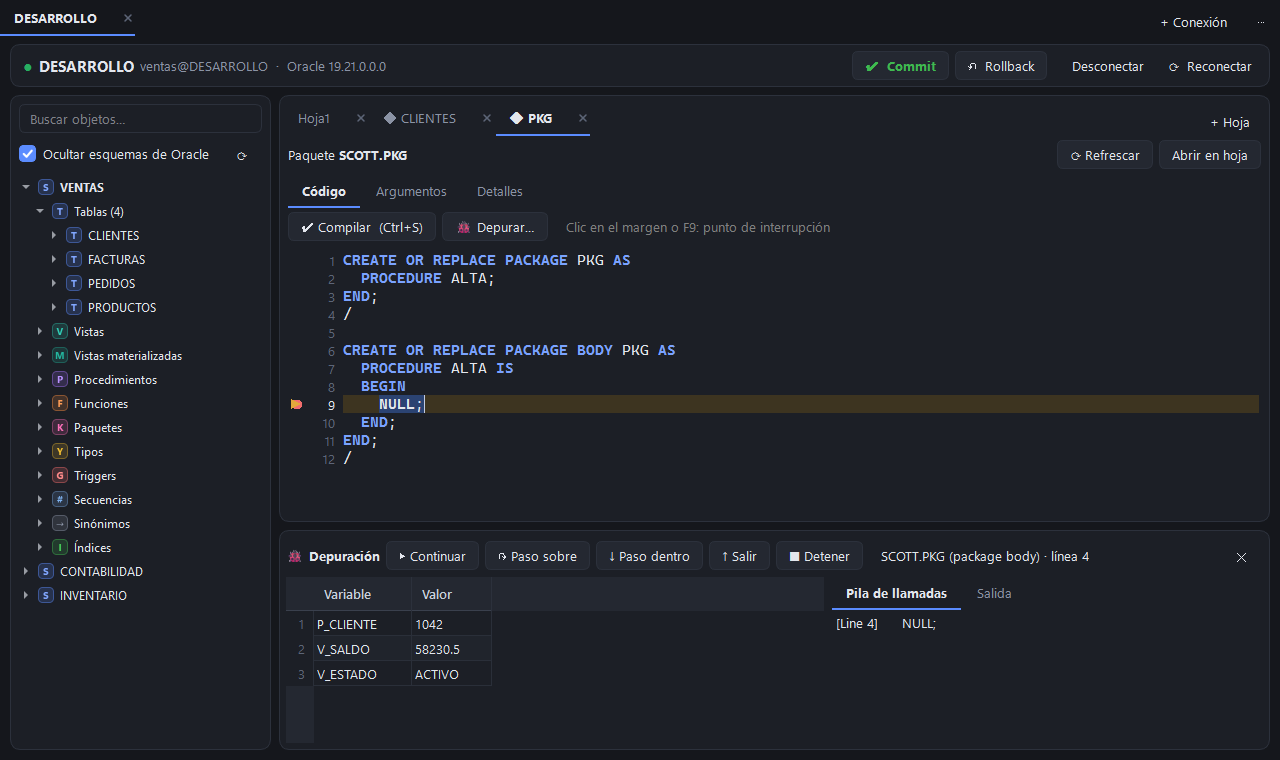
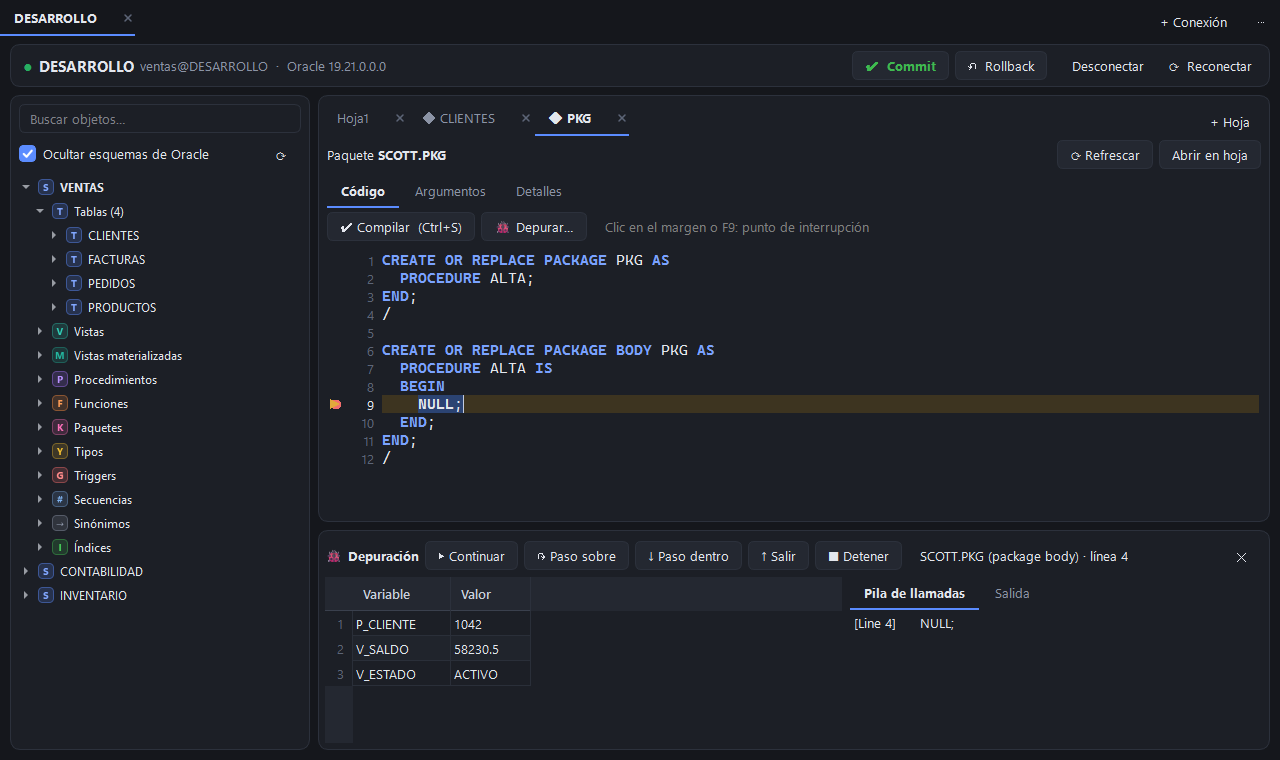
[CI minor] Interfaz rediseñada, resultados a la derecha o abajo, desconectar/reconectar y zoom

diff --git a/minisql/ui/results_dock.py b/minisql/ui/results_dock.py
@@ -1,0 +1,123 @@
+"""Dónde van los resultados de las hojas: abajo del editor o a la derecha.
+
+Se cambia arrastrando la pestaña "Resultados" (o "DBMS_OUTPUT") hacia la derecha o hacia abajo, o con el botón
+⇆/⇅. Es una sola preferencia para todas las hojas y se recuerda en config.json ("results_position").
+"""
+from PySide6.QtCore import QEvent, QObject, QRect, Qt, Signal
+from PySide6.QtWidgets import QApplication, QFrame
+
+from ..config import load_settings, save_settings
+
+POSITIONS = ("bottom", "right")
+
+
+class ResultsPlacement(QObject):
+    changed = Signal(str)
+
+    def __init__(self, load=load_settings, save=save_settings):
+        super().__init__()
+        self._load, self._save = load, save
+        self._position = None
+
+    @property
+    def position(self):
+        if self._position is None:
+            try:
+                value = self._load().get("results_position", "bottom")
+            except OSError:
+                value = "bottom"
+            self._position = value if value in POSITIONS else "bottom"
+        return self._position
+
+    def set(self, position):
+        if position not in POSITIONS or position == self.position:
+            return
+        self._position = position
+        try:
+            data = self._load()
+            data["results_position"] = position
+            self._save(data)
+        except OSError:
+            pass                                   # sin poder guardarlo, igual se aplica en esta sesión
+        self.changed.emit(position)
+
+    def toggle(self):
+        self.set("right" if self.position == "bottom" else "bottom")
+
+
+placement = ResultsPlacement()
+
+
+class ResultsDragger(QObject):
+    """Arrastrar las pestañas de resultados (tab_bar) sobre el divisor (splitter) para cambiarlas de lado.
+    Un clic normal sigue cambiando de pestaña: el arrastre empieza recién al moverse un poco."""
+
+    def __init__(self, tab_bar, splitter):
+        super().__init__(tab_bar)
+        self.tab_bar, self.splitter = tab_bar, splitter
+        self.start = None
+        self.dragging = False
+        self.target = None
+        self._band = None
+        tab_bar.installEventFilter(self)
+
+    @property
+    def band(self):
+        """Dónde van a quedar: un recuadro del color de acento. Se crea al primer arrastre (cuando el divisor
+        ya está dentro de la hoja) y va sobre su contenedor, no dentro: QSplitter convierte en un panel más a
+        cualquier widget hijo."""
+        if self._band is None:
+            self._band = QFrame(self.splitter.parentWidget())
+            self._band.setObjectName("dropZone")
+            self._band.setAttribute(Qt.WA_TransparentForMouseEvents)
+            self._band.hide()
+        return self._band
+
+    def eventFilter(self, _obj, event):
+        kind = event.type()
+        if kind == QEvent.MouseButtonPress and event.button() == Qt.LeftButton:
+            self.start, self.dragging = event.globalPosition().toPoint(), False
+        elif kind == QEvent.MouseMove and self.start is not None and event.buttons() & Qt.LeftButton:
+            pos = event.globalPosition().toPoint()
+            if not self.dragging and (pos - self.start).manhattanLength() > QApplication.startDragDistance() * 3:
+                self.dragging = True
+                self.tab_bar.setCursor(Qt.ClosedHandCursor)
+            if self.dragging:
+                self._preview(self.splitter.mapFromGlobal(pos))
+                return True
+        elif kind == QEvent.MouseButtonRelease and self.start is not None:
+            was_dragging, target = self.dragging, self.target
+            self._reset()
+            if was_dragging:
+                if target:
+                    placement.set(target)
+                return True
+        return False
+
+    def target_at(self, point):
+        """"right", "bottom" o None según dónde está el cursor sobre la hoja."""
+        w, h = max(1, self.splitter.width()), max(1, self.splitter.height())
+        rx, ry = point.x() / w, point.y() / h
+        if rx > 0.6 and rx - 0.6 >= ry - 0.6:
+            return "right"
+        if ry > 0.6:
+            return "bottom"
+        return None
+
+    def _preview(self, point):
+        self.target = self.target_at(point)
+        area = self.splitter.geometry()
+        if self.target == "right":
+            self.band.setGeometry(QRect(area.center().x(), area.top(), area.width() // 2, area.height()))
+        elif self.target == "bottom":
+            self.band.setGeometry(QRect(area.left(), area.center().y(), area.width(), area.height() // 2))
+        if self.target:
+            self.band.show()
+            self.band.raise_()
+        else:
+            self.band.hide()
+
+    def _reset(self):
+        self.start, self.dragging, self.target = None, False, None
+        self.band.hide()
+        self.tab_bar.unsetCursor()

diff --git a/minisql/ui/sheet.py b/minisql/ui/sheet.py
@@ -11,6 +11,7 @@ from PySide6.QtWidgets import (
     QMessageBox,
     QPlainTextEdit,
     QPushButton,
+    QSizePolicy,
     QSplitter,
     QTabWidget,
     QTextEdit,
@@ -34,6 +35,7 @@ from .editors import MonoText, SqlEditor
 from .find_bar import with_find_bar
 from .result_panel import ResultPanel
 from .results import ResultModel
+from .results_dock import ResultsDragger, placement
 from .style import StatusLabel, variant
 from .workers import Emitter
 
@@ -87,7 +89,16 @@ class SheetWidget(QWidget):
         self.result_tabs.setDocumentMode(True)
         self.result_tabs.addTab(self.results, "Resultados")
         self.result_tabs.addTab(self.output, "DBMS_OUTPUT")
-        self.result_tabs.setCornerWidget(clear_out, Qt.TopRightCorner)
+        self.side_btn = QToolButton()
+        self.side_btn.setAutoRaise(True)
+        self.side_btn.clicked.connect(placement.toggle)
+        corner = QWidget()
+        corner_row = QHBoxLayout(corner)
+        corner_row.setContentsMargins(0, 0, 0, 0)
+        corner_row.setSpacing(2)
+        corner_row.addWidget(clear_out)
+        corner_row.addWidget(self.side_btn)
+        self.result_tabs.setCornerWidget(corner, Qt.TopRightCorner)
         self.output_check.toggled.connect(lambda on: self.result_tabs.setTabVisible(1, on))
         self.last_output = 0
 
@@ -101,13 +112,23 @@ class SheetWidget(QWidget):
         bar.addSpacing(12)
         bar.addWidget(self.status, 1)
         self.status.setObjectName("muted")
+        self.output_check.setSizePolicy(QSizePolicy.Fixed, QSizePolicy.Fixed)    # nunca la tapa un mensaje largo
+        self.status.setSizePolicy(QSizePolicy.Ignored, QSizePolicy.Preferred)   # el mensaje cede espacio
 
-        splitter = QSplitter(Qt.Vertical)
+        splitter = self.splitter = QSplitter(Qt.Vertical)
+        splitter.setObjectName("editorSplit")             # su divisor se dibuja como una línea (theme.py)
+        splitter.setChildrenCollapsible(False)
         editor_box = with_find_bar(self.editor)         # Ctrl+F buscar, Ctrl+H reemplazar
         self.find_bar = editor_box.find_bar
         splitter.addWidget(editor_box)
         splitter.addWidget(self.result_tabs)
         splitter.setSizes([300, 400])
+        editor_box.setMinimumSize(220, 90)               # ningún lado se puede aplastar del todo
+        self.result_tabs.setMinimumSize(300, 120)        # (y los resultados se compactan si quedan angostos)
+        # resultados abajo o a la derecha: arrastrando sus pestañas o con el botón ⇆/⇅ (para todas las hojas)
+        self.dragger = ResultsDragger(self.result_tabs.tabBar(), splitter)
+        self.apply_results_position(placement.position)
+        placement.changed.connect(self.apply_results_position)
 
         layout = QVBoxLayout(self)
         layout.setContentsMargins(6, 8, 6, 4)
@@ -127,6 +148,16 @@ class SheetWidget(QWidget):
             sc = QShortcut(QKeySequence(seq), self)
             sc.setContext(Qt.WidgetWithChildrenShortcut)
             sc.activated.connect(slot)
+
+    def apply_results_position(self, position):
+        right = position == "right"
+        if (self.splitter.orientation() == Qt.Horizontal) != right:
+            self.splitter.setOrientation(Qt.Horizontal if right else Qt.Vertical)
+            size = self.splitter.width() if right else self.splitter.height()
+            self.splitter.setSizes([size // 2, size - size // 2] if right else [size * 2 // 5, size - size * 2 // 5])
+        self.side_btn.setText("⇅" if right else "⇆")
+        self.side_btn.setToolTip("Resultados abajo" if right else "Resultados a la derecha"
+                                 "  (también puedes arrastrar la pestaña Resultados)")
 
     def set_running(self, running, text=""):
         """Mientras corre, los resultados anteriores quedan tapados por "Ejecutando…" (no se pueden editar)."""

diff --git a/tests/test_results_dock.py b/tests/test_results_dock.py
@@ -1,0 +1,79 @@
+"""Resultados abajo o a la derecha: arrastrando la pestaña Resultados o con el botón ⇆/⇅."""
+from PySide6.QtCore import QEvent, QPoint, QPointF, Qt
+from PySide6.QtGui import QMouseEvent
+from PySide6.QtWidgets import QApplication
+
+from minisql.ui.connection_tab import ConnectionTab
+from minisql.ui.results_dock import placement
+
+from support import FakeConn, make_session, pump
+
+
+def sheet_tab(app):
+    tab = ConnectionTab(make_session(FakeConn()), "T", "DEV")
+    tab.resize(1000, 700)
+    tab.show()
+    pump(app, 3)
+    return tab
+
+
+def mouse(widget, kind, point, buttons=Qt.LeftButton):
+    local = QPointF(point)
+    glob = QPointF(widget.mapToGlobal(point))
+    button = Qt.LeftButton if kind != QEvent.MouseMove else Qt.NoButton
+    QApplication.sendEvent(widget, QMouseEvent(kind, local, glob, button, buttons, Qt.NoModifier))
+
+
+def test_button_moves_results_right_for_every_sheet(app):
+    tab = sheet_tab(app)
+    first, second = tab.current_sheet(), tab.add_sheet()
+    assert placement.position == "bottom" and first.splitter.orientation() == Qt.Vertical
+    first.side_btn.click()                                              # ⇆
+    for sheet in (first, second):                                       # todas las hojas a la vez
+        assert sheet.splitter.orientation() == Qt.Horizontal and sheet.side_btn.text() == "⇅"
+    assert placement._load()["results_position"] == "right"             # se recuerda
+    later = tab.add_sheet()                                             # y las hojas nuevas nacen así
+    assert later.splitter.orientation() == Qt.Horizontal
+    second.side_btn.click()                                             # ⇅: de vuelta abajo
+    assert first.splitter.orientation() == Qt.Vertical and placement.position == "bottom"
+
+
+def test_drag_the_results_tab_to_the_right_and_back(app):
+    tab = sheet_tab(app)
+    sheet = tab.current_sheet()
+    bar, splitter = sheet.result_tabs.tabBar(), sheet.splitter
+    start = bar.tabRect(0).center()
+
+    def drag_to(target):                                                # target: punto sobre el divisor
+        mouse(bar, QEvent.MouseButtonPress, start)
+        mouse(bar, QEvent.MouseMove, start + QPoint(40, 0))
+        mouse(bar, QEvent.MouseMove, bar.mapFrom(splitter, target))
+        preview = sheet.dragger.band.isVisible()
+        mouse(bar, QEvent.MouseButtonRelease, bar.mapFrom(splitter, target), Qt.NoButton)
+        return preview
+
+    w, h = splitter.width(), splitter.height()
+    assert drag_to(QPoint(int(w * 0.9), int(h * 0.3)))                  # se ve dónde va a quedar
+    assert splitter.orientation() == Qt.Horizontal and not sheet.dragger.band.isVisible()
+    w, h = splitter.width(), splitter.height()
+    drag_to(QPoint(int(w * 0.3), int(h * 0.9)))                         # abajo
+    assert splitter.orientation() == Qt.Vertical
+
+
+def test_a_click_still_switches_tabs(app):
+    tab = sheet_tab(app)
+    sheet = tab.current_sheet()
+    bar = sheet.result_tabs.tabBar()
+    point = bar.tabRect(1).center()
+    mouse(bar, QEvent.MouseButtonPress, point)
+    mouse(bar, QEvent.MouseButtonRelease, point, Qt.NoButton)
+    assert sheet.result_tabs.currentIndex() == 1 and placement.position == "bottom"
+
+
+def test_drop_zones(app):
+    tab = sheet_tab(app)
+    dragger = tab.current_sheet().dragger
+    w, h = dragger.splitter.width(), dragger.splitter.height()
+    assert dragger.target_at(QPoint(int(w * 0.95), int(h * 0.5))) == "right"
+    assert dragger.target_at(QPoint(int(w * 0.5), int(h * 0.95))) == "bottom"
+    assert dragger.target_at(QPoint(int(w * 0.3), int(h * 0.3))) is None      # el centro: no cambia nada

diff --git a/minisql/ui/theme.py b/minisql/ui/theme.py
@@ -129,6 +129,13 @@ def _images(t):
     }
 
 
+def _line(color, axis):
+    """Fondo de un divisor: una línea de 2 px en el centro (axis "y": horizontal; "x": vertical)."""
+    end = "x2:0, y2:1" if axis == "y" else "x2:1, y2:0"
+    return (f"qlineargradient(x1:0, y1:0, {end}, stop:0 transparent, stop:0.39 transparent, "
+            f"stop:0.4 {color}, stop:0.6 {color}, stop:0.61 transparent, stop:1 transparent)")
+
+
 def stylesheet(t, images):
     return f"""
     QToolTip {{
@@ -186,8 +193,8 @@ def stylesheet(t, images):
     /* --- casillas */
     QCheckBox {{ spacing: 7px; }}
     QCheckBox::indicator {{
-        width: 15px; height: 15px; border-radius: 4px; border: 1px solid {t['border_strong']};
-        background: {t['surface']};
+        width: 15px; height: 15px; border-radius: 4px; border: 1px solid {t['muted']};
+        background: {t['surface2']};
     }}
     QCheckBox::indicator:hover {{ border-color: {t['accent']}; }}
     QCheckBox::indicator:checked {{
@@ -231,6 +238,11 @@ def stylesheet(t, images):
     QSplitter::handle {{ background: transparent; }}
     QSplitter::handle:horizontal {{ width: 8px; }}
     QSplitter::handle:vertical {{ height: 8px; }}
+    /* entre el editor y los resultados (abajo o a la derecha): una línea visible que se puede arrastrar */
+    QSplitter#editorSplit::handle:vertical {{ height: 10px; background: {_line(t['border_strong'], 'y')}; }}
+    QSplitter#editorSplit::handle:vertical:hover {{ background: {_line(t['accent'], 'y')}; }}
+    QSplitter#editorSplit::handle:horizontal {{ width: 10px; background: {_line(t['border_strong'], 'x')}; }}
+    QSplitter#editorSplit::handle:horizontal:hover {{ background: {_line(t['accent'], 'x')}; }}
     QScrollBar:vertical {{ background: transparent; width: 11px; margin: 0; }}
     QScrollBar:horizontal {{ background: transparent; height: 11px; margin: 0; }}
     QScrollBar::handle {{ background: {t['border_strong']}; border-radius: 4px; margin: 2px; }}
@@ -249,6 +261,7 @@ def stylesheet(t, images):
     QMenu::separator {{ height: 1px; background: {t['border']}; margin: 5px 8px; }}
     QMenu::indicator {{ width: 14px; height: 14px; margin-left: 6px; }}
     QStatusBar {{ color: {t['muted']}; }}
+    QFrame#dropZone {{ background: {t['accent_soft']}; border: 2px dashed {t['accent']}; border-radius: 8px; }}
     QProgressBar {{
         background: {t['surface2']}; border: 1px solid {t['border']}; border-radius: 6px; text-align: center;
     }}

diff --git a/minisql/ui/result_panel.py b/minisql/ui/result_panel.py
@@ -148,6 +148,29 @@ class ResultPanel(QWidget):
             self._update_count()
 
     # --- mostrar resultados
+    # --- angosto (p. ej. resultados a la derecha): botones solo con su símbolo, filtro más corto
+    COMPACT_WIDTH = 900
+    compact = False
+
+    def resizeEvent(self, event):
+        super().resizeEvent(event)
+        self.set_compact(self.width() < self.COMPACT_WIDTH)
+
+    def set_compact(self, compact):
+        if compact == self.compact:
+            return
+        self.compact = compact
+        for button in (self.add_btn, self.dup_btn, self.del_btn, self.save_btn, self.cancel_btn):
+            full = button.property("full_text") or button.text()
+            button.setProperty("full_text", full)
+            button.setText(full.split(" ", 1)[0] if compact else full)
+        self.filter_edit.setMinimumWidth(90 if compact else 170)
+        self.filter_column.setSizeAdjustPolicy(QComboBox.AdjustToMinimumContentsLengthWithIcon if compact
+                                               else QComboBox.AdjustToContents)
+        self.filter_column.setMinimumContentsLength(8)
+        # el estado (✎ TABLA / 🔒 motivo) cede espacio; completo en su tooltip
+        self.state.setSizePolicy(QSizePolicy.Ignored if compact else QSizePolicy.Minimum, QSizePolicy.Preferred)
+
     @property
     def model(self):
         return self.view.model()

diff --git a/tests/test_reconnect.py b/tests/test_reconnect.py
@@ -74,7 +74,9 @@ def test_disconnect_keeps_the_sheets_and_reconnect_resumes(app, tmp_path, monkey
                         staticmethod(lambda *a, **k: asked.append(a[2]) or QMessageBox.Yes))
     sheet.run()                                                         # sin conexión: ofrece reconectar
     assert asked and "Reconectar y ejecutar" in asked[0]
-    assert wait_until(app, lambda: tab.connected and not sheet.running and sheet.results.model is not None)
+    # db.connected cambia en el hilo de trabajo; la interfaz se actualiza después (reconnecting vuelve a False)
+    assert wait_until(app, lambda: not tab.reconnecting and tab.connected and not sheet.running
+                      and sheet.results.model.rowCount() == 2)
     assert w.tabs.tabText(0) == "DEV" and tab.conn_state.text() == "" and tab.commit_btn.isEnabled()
     assert sheet.results.model.rowCount() == 2                          # y ejecutó la consulta
 

diff --git a/tests/conftest.py b/tests/conftest.py
@@ -19,6 +19,11 @@ def isolated_font_zoom(monkeypatch):
     monkeypatch.setattr(font_zoom, "_load", lambda: dict(store))
     monkeypatch.setattr(font_zoom, "_save", store.update)
     monkeypatch.setattr(font_zoom, "_size", None)
+    from minisql.ui.results_dock import placement  # lado de los resultados: igual, en memoria
+    places = {}
+    monkeypatch.setattr(placement, "_load", lambda: dict(places))
+    monkeypatch.setattr(placement, "_save", places.update)
+    monkeypatch.setattr(placement, "_position", None)
 
 
 @pytest.fixture(scope="session")

diff --git a/docs/contexto/interfaz.md b/docs/contexto/interfaz.md
@@ -35,6 +35,7 @@ falla con `ScriptError`; `on_error` llama `refresh_pending`). 5. `show_running_s
 
 ## Otros
 - Conexión: ⏏ Desconectar / ⟳ Reconectar en la barra de `ConnectionTab` (`disconnect`, `reconnect(then)`). Ambas pasan por `_release_session(verbo)` (grilla sin guardar, algo corriendo, Commit/Rollback pendiente), igual que `close_connection`. `_watch(fn)` envuelve lo que corre en hilos: si el error es de conexión perdida, marca `db.connected=False` y emite `_lost` → `_on_lost` (aviso, pendiente perdido, `forget_stream` de los paneles). `SheetWidget.run` sin conexión ofrece "Reconectar y ejecutar". Título de la pestaña: "○ " si está desconectada. Pruebas: `tests/test_reconnect.py` (`perder_conexion` en FakeCursor lanza ORA-03113).
+- Resultados abajo o a la derecha: `ui/results_dock.py` → `placement` (una preferencia para todas las hojas, config.json `results_position`, aislada en conftest) y `ResultsDragger` (arrastrar la pestaña Resultados; el recuadro `QFrame#dropZone` cuelga del contenedor del divisor, nunca del QSplitter: lo volvería un panel). `SheetWidget.splitter` (`#editorSplit`, divisor dibujado como línea), botón ⇆/⇅ `side_btn`. `ResultPanel.set_compact` (< 900 px: botones solo con símbolo). Pruebas: `tests/test_results_dock.py`.
 - `ConnectionTab.current_sheet()` siempre devuelve una SheetWidget (nunca un visor).
 - Zoom: `style.font_zoom` (FontZoom, uno para toda la app, config.json `font_size`); los widgets se suscriben a `font_zoom.changed` con un método propio (`apply_font_size`) y en `wheelEvent` llaman `font_zoom.wheel(e)` (SqlEditor/CodeEditor, `MonoText` para salidas, ResultView con `ui_font`). Ctrl+0 = `reset`. Las pruebas lo aíslan en memoria (conftest `isolated_font_zoom`).
 - Tema: `ui/theme.py` → `apply_theme(app)` en `app.main` (Fusion + paleta + fuente Segoe UI/Cascadia Mono + hoja de estilos). Colores en `THEMES["dark"|"light"]`; config.json `"theme"`: system/dark/light (menú ⋯ → Tema, se aplica al reabrir). Botones con jerarquía: `style.variant(btn, "primary"|"ghost"|"success"|"danger")`; zonas de trabajo con `style.card(widget)` (QFrame#card, sigue la visibilidad del contenido); íconos del árbol con `theme.badge_icon(tipo)`. Nada de colores fijos en widgets: usar `tokens()`/`THEMES`.

diff --git a/README.md b/README.md
@@ -22,6 +22,8 @@ explorador de objetos, autocompletado, edición y compilación de paquetes, y de
   valor contra la columna (tipo, largo, decimales, NOT NULL). **Guardar** muestra antes las sentencias que se
   van a ejecutar, aplica los cambios por ROWID y quedan pendientes de Commit; **Cancelar** los descarta.
 - **Filtrar y ordenar** los resultados: texto libre, `=valor`, `>100`, `<=2026-01-31`, `null`, `!null`.
+- **Resultados abajo o a la derecha:** arrastra la pestaña «Resultados» hacia la derecha o hacia abajo (o usa ⇆/⇅);
+  se recuerda para todas las hojas.
 - **Paginación:** se traen de Oracle **200 filas por página**; ▶ trae la siguiente y «⏬ Todas» el resto (hasta
   100.000). El filtro y el orden se aplican a las filas ya cargadas.
 - **Ejecución sin congelar la ventana**, con cancelación y tiempo transcurrido.
